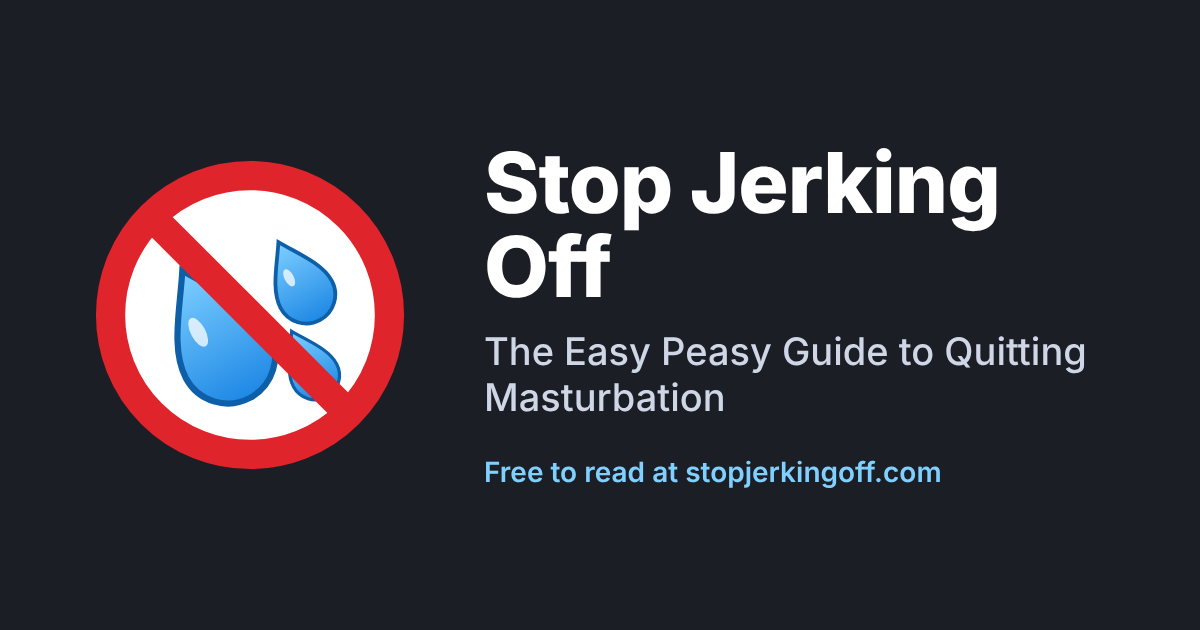
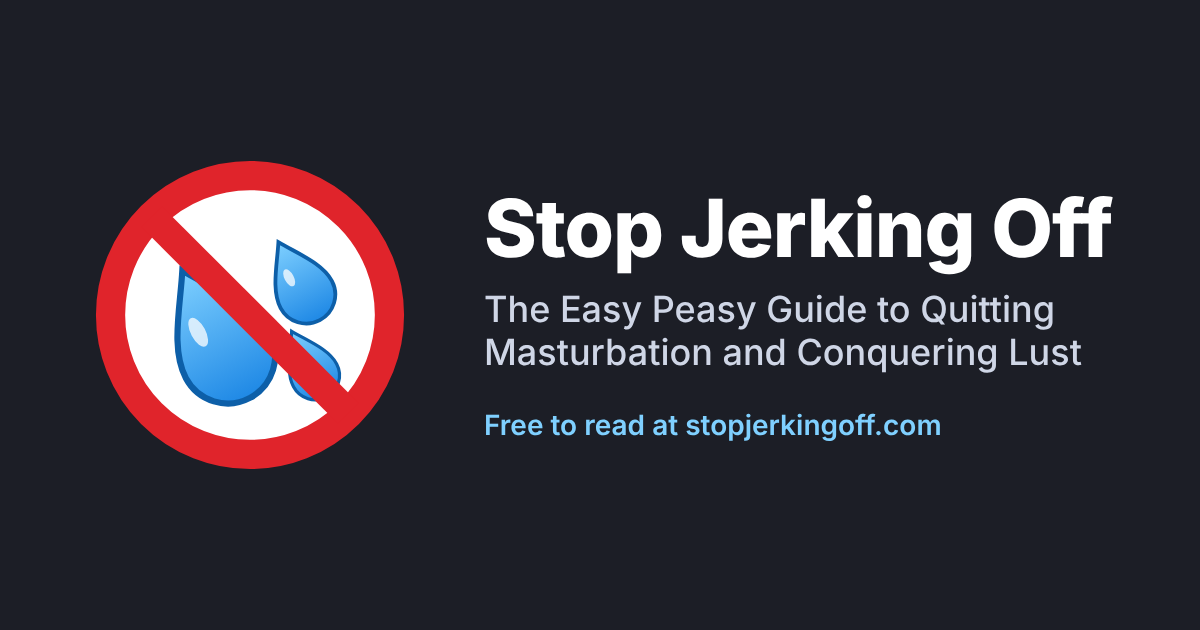
New subtitle: The Easy Peasy Guide to Quitting Masturbation and Conquering Lust
Updated in the book, the attribution page, the share image and the SEO
tags. The Introduction's first sentence now reads 'This free book will help
you stop masturbating and conquer your lust.' Adds a visitor count to the
sidebar from GoatCounter's public counter.

Claude-Session: https://claude.ai/code/session_01PmUGnYjDHtjUciKgiGjbhY

Changed region(s): [[0.4008, 0.2413, 0.925, 0.6937], [0.4008, 0.7238, 0.8017, 0.7841]]

diff --git a/site/counter.js b/site/counter.js
@@ -1,0 +1,21 @@
+/* Shows "12,345 visitors conquering lust" in the sidebar, using GoatCounter's
+   public counter (no cookies, no personal data). Needs "Allow adding visitor
+   counts on your website" switched on in GoatCounter's settings; until then,
+   or if the count can't load, nothing is shown. */
+(function () {
+  function show() {
+    var el = document.getElementById("sjo-count");
+    if (!el) return;
+    fetch("https://stopjerkingoff.goatcounter.com/counter/TOTAL.json")
+      .then(function (r) { if (!r.ok) throw new Error(r.status); return r.json(); })
+      .then(function (d) {
+        var n = d.count_unique || d.count;
+        if (!n) return;
+        el.textContent = n + " visitors conquering lust";
+        el.hidden = false;
+      })
+      .catch(function () {});
+  }
+  if (document.readyState === "loading") document.addEventListener("DOMContentLoaded", show);
+  else show();
+})();

diff --git a/style.css b/style.css
@@ -205,3 +205,8 @@ pre code {
     padding: 0.85em 1em;
   }
 }
+.book .book-summary ul.summary li.visit-count {
+  padding: 2px 15px 10px 49px;
+  font-size: 0.85em;
+  opacity: 0.75;
+}

diff --git a/tools/seo.py b/tools/seo.py
@@ -11,10 +11,10 @@ from pathlib import Path
 
 SITE = "https://stopjerkingoff.com/"
 TITLE = "Stop Jerking Off"
-FULL_TITLE = "Stop Jerking Off: The Easy Peasy Guide to Quitting Masturbation"
-DESCRIPTION = ("Stop masturbating easily, without willpower or shame. A free book in the "
-               "style of EasyPeasy that takes the habit apart so you can walk away for good.")
-IMAGE = SITE + "images/og-image.png"
+FULL_TITLE = "Stop Jerking Off: The Easy Peasy Guide to Quitting Masturbation and Conquering Lust"
+DESCRIPTION = ("Stop masturbating easily and conquer your lust, without willpower or shame. "
+               "A free book in the style of EasyPeasy that helps you walk away for good.")
+IMAGE = SITE + "images/og-image.png?v=2"
 AUTHOR = "AnotherHackAuthor"
 
 book = Path(sys.argv[1] if len(sys.argv) > 1 else "_book")
@@ -54,13 +54,14 @@ def head_tags(url, title, is_home, noindex):
         tags.append('<meta name="robots" content="noindex" />')
     else:
         tags.append('<script src="feedback.js" defer></script>')
+        tags.append('<script src="counter.js" defer></script>')
     # Cookie-free visit counter (GoatCounter); no personal data is collected.
     tags.append('<script data-goatcounter="https://stopjerkingoff.goatcounter.com/count" async src="//gc.zgo.at/count.js"></script>')
     if is_home:
         data = {
             "@context": "https://schema.org", "@type": "Book",
             "name": TITLE,
-            "alternativeHeadline": "The Easy Peasy Guide to Quitting Masturbation",
+            "alternativeHeadline": "The Easy Peasy Guide to Quitting Masturbation and Conquering Lust",
             "description": DESCRIPTION, "url": SITE, "image": IMAGE,
             "author": {"@type": "Person", "name": AUTHOR},
             "inLanguage": "en", "isAccessibleForFree": True,

diff --git a/launch/LAUNCH-KIT.md b/launch/LAUNCH-KIT.md
@@ -95,7 +95,7 @@ Platform note: Instagram, TikTok and YouTube Shorts can down-rank posts that say
 >
 > A lot of us quit porn and thought we'd won. But the habit underneath (the late nights, the shower, the memories) didn't go anywhere. For Christian men it comes with a weight of shame and broken promises to God.
 >
-> There's a free book called *Stop Jerking Off: The Easy Peasy Guide to Quitting Masturbation*. It follows the method of EasyPeasy, the free book that's helped huge numbers of men quit porn, and applies it to masturbation and lust. It calls it sin honestly, and then it pairs that with grace instead of grit. No streaks, no willpower, no shaming.
+> There's a free book called *Stop Jerking Off: The Easy Peasy Guide to Quitting Masturbation and Conquering Lust*. It follows the method of EasyPeasy, the free book that's helped huge numbers of men quit porn, and applies it to masturbation and lust. It calls it sin honestly, and then it pairs that with grace instead of grit. No streaks, no willpower, no shaming.
 >
 > It's completely free to read or download: https://stopjerkingoff.com
 >
@@ -172,7 +172,7 @@ A 10–15 minute narrated "the first chapter" video or the full audiobook (plann
 > Brothers, sharing a free resource for anyone fighting the battle with lust. It's a book on quitting masturbation, built on Scripture (Matt 5:28, Rom 6:14) and grace rather than grit, written in the style of EasyPeasy. Free online or as PDF/EPUB, no signup: stopjerkingoff.com. Could be worth reading together, or just quietly on your own.
 
 **For your pastor or a group leader:**
-> Pastor, I wanted to pass on a free book that could help the men in our church: *Stop Jerking Off: The Easy Peasy Guide to Quitting Masturbation* (stopjerkingoff.com). It calls the habit sin honestly and leans hard on grace, without the shame spiral. Chapter 30 is written for pastors, parents and wives on how to help. I'd value your opinion on it.
+> Pastor, I wanted to pass on a free book that could help the men in our church: *Stop Jerking Off: The Easy Peasy Guide to Quitting Masturbation and Conquering Lust* (stopjerkingoff.com). It calls the habit sin honestly and leans hard on grace, without the shame spiral. Chapter 30 is written for pastors, parents and wives on how to help. I'd value your opinion on it.
 
 (These are written so you can send them as a reader. You don't have to say you wrote it.)
 
@@ -202,7 +202,7 @@ A 10–15 minute narrated "the first chapter" video or the full audiobook (plann
 >
 > Hi mods,
 >
-> I've written a free book, *Stop Jerking Off: The Easy Peasy Guide to Quitting Masturbation* (stopjerkingoff.com). It's a sequel to EasyPeasy that applies the same method to masturbation and lust. It's free to read and download, has no signup, ads, course or donation ask, and is released under CC BY-SA 4.0, the same licence as EasyPeasy.
+> I've written a free book, *Stop Jerking Off: The Easy Peasy Guide to Quitting Masturbation and Conquering Lust* (stopjerkingoff.com). It's a sequel to EasyPeasy that applies the same method to masturbation and lust. It's free to read and download, has no signup, ads, course or donation ask, and is released under CC BY-SA 4.0, the same licence as EasyPeasy.
 >
 > Would you be OK with me making one post about it here? I'm happy to follow any format you prefer, or to skip posting if it doesn't fit the sub.
 >
@@ -277,7 +277,7 @@ Short, respectful, and asks for nothing they have to do. Send from `[book email]
 >
 > Hi [name],
 >
-> I wanted to let you know that [your video "TITLE" / your article "TITLE"] is quoted briefly in a free book I've written, *Stop Jerking Off: The Easy Peasy Guide to Quitting Masturbation*. [One sentence on how it's used, e.g. "Your advice on noticing an urge and doing nothing with it shaped the chapter on the first weeks."]
+> I wanted to let you know that [your video "TITLE" / your article "TITLE"] is quoted briefly in a free book I've written, *Stop Jerking Off: The Easy Peasy Guide to Quitting Masturbation and Conquering Lust*. [One sentence on how it's used, e.g. "Your advice on noticing an urge and doing nothing with it shaped the chapter on the first weeks."]
 >
 > The book is completely free (no ads, signup or sales), released under CC BY-SA, and you're credited by name on the Attribution page and in the Further Reading list: https://stopjerkingoff.com/attribution.html. It doesn't claim you endorse it.
 >
@@ -382,7 +382,7 @@ Pitch as AnotherHackAuthor (audio-only shows suit a pen name). Verify each show 
 >
 > Hi [name],
 >
-> I'm the author (writing as AnotherHackAuthor) of *Stop Jerking Off: The Easy Peasy Guide to Quitting Masturbation*, a free book for men who've tried to stop and keep failing. It's a sequel to EasyPeasy, the free book many men have used to quit porn, and applies the same approach to masturbation and lust on a Christian foundation.
+> I'm the author (writing as AnotherHackAuthor) of *Stop Jerking Off: The Easy Peasy Guide to Quitting Masturbation and Conquering Lust*, a free book for men who've tried to stop and keep failing. It's a sequel to EasyPeasy, the free book many men have used to quit porn, and applies the same approach to masturbation and lust on a Christian foundation.
 >
 > What makes it different:
 > - It calls the habit sin plainly, and then leans on grace (Rom 8:1, 6:14) rather than shame or white-knuckle willpower.

diff --git a/STYLE.md b/STYLE.md
@@ -1,6 +1,6 @@
 # Writing brief (for every chapter)
 
-The book: *Stop Jerking Off: The Easy Peasy Guide to Quitting Masturbation* by AnotherHackAuthor. It is a SEQUEL to [EasyPeasy](https://easypeasymethod.org/), which is based on Allen Carr. The reader has quit porn, or wants to; the next level is removing masturbation and lust. We are writing a fast first draft; editorial passes come later.
+The book: *Stop Jerking Off: The Easy Peasy Guide to Quitting Masturbation and Conquering Lust* by AnotherHackAuthor. It is a SEQUEL to [EasyPeasy](https://easypeasymethod.org/), which is based on Allen Carr. The reader has quit porn, or wants to; the next level is removing masturbation and lust. We are writing a fast first draft; editorial passes come later.
 
 ## Sources to read for each chapter
 - **EasyPeasy plain text:** `/tmp/claude-0/-home-user/f73c4488-5e98-5895-9bd4-3978678a5a69/scratchpad/epub/all.txt`. Our chapter file `NN-*.Rmd` corresponds to EasyPeasy section `ch0(NN+1)` (e.g. our 02 = their ch003). Copy each chapter's job, order, devices and rhythm. **Never copy its sentences.**

diff --git a/OUTLINE.md b/OUTLINE.md
@@ -1,4 +1,4 @@
-# Outline: Stop Jerking Off: The Easy Peasy Guide to Quitting Masturbation
+# Outline: Stop Jerking Off: The Easy Peasy Guide to Quitting Masturbation and Conquering Lust
 
 By AnotherHackAuthor. This follows EasyPeasy chapter by chapter: same order, same job for each chapter, same voice, with fresh text adapted to jerking off. Each entry lists the chapter's job, the key moves, a verse (World English Bible), and what to research before drafting.
 

diff --git a/README.md b/README.md
@@ -1,4 +1,4 @@
-# Stop Jerking Off: The Easy Peasy Guide to Quitting Masturbation
+# Stop Jerking Off: The Easy Peasy Guide to Quitting Masturbation and Conquering Lust
 
 A free, open-source hackbook for men who want to break the compulsive masturbation habit and master lust, written as a sequel to [EasyPeasy](https://easypeasymethod.org/) on a Christian foundation. It's for anyone who wants out, whatever they believe.
 
